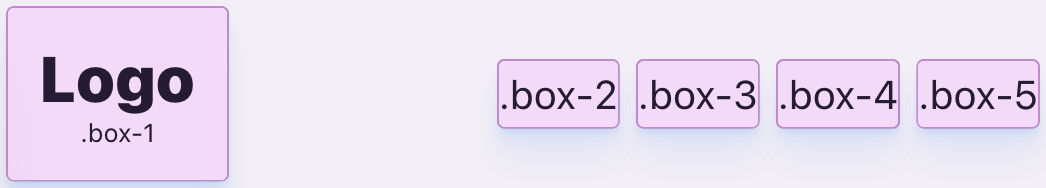
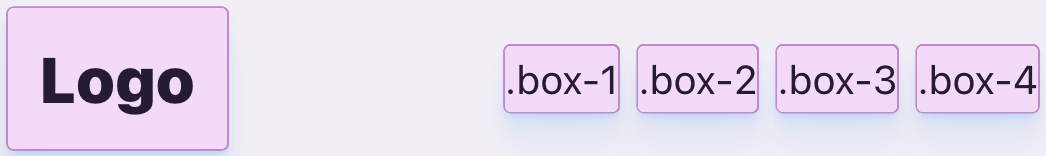
new exercises

diff --git a/src/content/config.ts b/src/content/config.ts
@@ -20,6 +20,7 @@ const exerciseCollection = defineCollection({
         })
         .optional(),
       startingCSS: z.string().optional(),
+      startingHTML: z.string().optional(),
       hints: z
         .array(
           z.object({

diff --git a/src/content/flex/07.md b/src/content/flex/07.md
@@ -1,33 +1,36 @@
 ---
-title: Flere rækker
+title: Klynge-wrap
 id: flex-7
 image: ./img/flex-7.png
-boxes: 8
+boxes: 0
 canAddBoxes: false
 isExtra: true
-customClass: ""
+customClass: "resize-x-only"
 help:
   {
     link: https://developer.mozilla.org/en-US/docs/Web/CSS/CSS_Flexible_Box_Layout/Basic_Concepts_of_Flexbox#the_flex-flow_shorthand,
     topic: flex-flow og flex-værdier,
   }
+startingHTML: |
+  <div class="box">Layout</div>
+  <div class="box">CSS</div>
+  <div class="box">Web Design</div>
+  <div class="box">Code</div>
+  <div class="box">Front-end</div>
+  <div class="box">Development</div>
 startingCSS: |
   .container {
     
   }
 
   .box {
-    
+    padding-inline: 1rem;
   }
 hints:
-  - { type: property, name: flex-flow }
-  - { type: property, name: flex-basis }
-  - { type: property, name: flex-grow }
+  - { type: property, name: flex-wrap }
   - { type: value, name: wrap }
 ---
 
-Få hver boks til minimum at fylde 30 % af containerens bredde, og sørg for, at boksene automatisk rykker ned på en ny række, hvis der ikke er plads ved at sætte `flex-flow` til `wrap`.
+Få hvert ord til at rykke ned på en ny række, hvis der ikke er plads nok på den nuværende, ved at sætte `flex-wrap` til `wrap` på `.container`en.
 
-Brug `flex-basis` til at indstille boksenes minimumsbredde, og sæt `flex-grow` til `1`, for at få boksene til at fylde containeren ud (se reference).
-
-**Bemærk**, at de to nederste bokse udnytter hele containerens bredde, når man bruger `flex-grow`.
+Tilføj noget afstand mellem ordene ved at sætte `gap` til `.5rem`.

diff --git a/src/content/grid/10.md b/src/content/grid/10.md
@@ -1,26 +1,31 @@
 ---
-title: Fyld kolonnerne først
+title: Header, Main og Footer
 id: grid-12
 image: ./img/grid-ex-12.png
-boxes: 7
+boxes: 3
 canAddBoxes: false
 isExtra: true
 customClass: ""
 help:
   {
-    link: https://developer.mozilla.org/en-US/docs/Web/CSS/grid-auto-flow,
-    topic: grid-auto-flow,
+    link: https://developer.mozilla.org/en-US/docs/Web/CSS/min-content,
+    topic: min-content,
   }
+startingHTML: |
+  <div class="box box-1">Header</div>
+  <div class="box box-2">Main</div>
+  <div class="box box-3">Footer</div>
 startingCSS: |
   .container {
-    
-  }
 
-  .box-1 {
-    
   }
 hints:
-  - { type: property, name: grid-auto-flow }
+  - { type: property, name: grid-template-rows }
+  - { type: value, name: min-content }
 ---
 
-Definér et grid med tre rækker og lad `.box-1` spænde over alle tre. Brug derefter `grid-auto-flow` til at generere yderligere to kolonner med de resterende bokse.
+Definér et grid med tre rækker, der repræsenterer en header, main og footer.
+
+`main` skal have en fleksibel højde, så den kan vokse med indholdet, og højden på `header` og `footer` skal defineres af indholdet vha. `min-content`.
+
+Trækderefter i vinduet med dine bokse (nederst i højre hjørne ↖) for at se, hvordan `header` og `footer` altid er placeret hhv. øverst og nederst i grid'et.

diff --git a/src/content/flex/08.md b/src/content/flex/08.md
@@ -1,0 +1,33 @@
+---
+title: Fyld rækkerne ud
+id: flex-8
+image: ./img/flex-8.png
+boxes: 8
+canAddBoxes: false
+isExtra: true
+customClass: "resize-x-only"
+help:
+  {
+    link: https://developer.mozilla.org/en-US/docs/Web/CSS/CSS_flexible_box_layout/Mastering_wrapping_of_flex_items#how_do_flexbox-based_grid_systems_work,
+    topic: flex-wrap og flex-værdier,
+  }
+startingCSS: |
+  .container {
+    
+  }
+
+  .box {
+    
+  }
+hints:
+  - { type: property, name: flex-wrap }
+  - { type: property, name: flex-basis }
+  - { type: property, name: flex-grow }
+  - { type: value, name: wrap }
+---
+
+Få boksene til at rykke ned på en ny række, hvis der ikke er plads nok ved at sætte `flex-wrap` til `wrap` på `.container`en. Indstil derefter hver boks til minimum at fylde 30 % af containerens bredde vha. `flex-basis: 30%;`. Sæt da `flex-grow` til `1` for hver boks for at få dem til at fylde containeren ud (se reference).
+
+`flex-basis` bruges til at indstille boksenes "ideelle" bredde, og `flex-grow` bruges til at udnytte overskydende mellemrum i containeren.
+
+_Bemærk, man kan også bruge en `flex` "shorthand" til at sætte både `flex-grow`, (`flex-shrink`) og `flex-basis` på én gang. Se link for mere info._

diff --git a/src/content/flex/10.md b/src/content/flex/10.md
@@ -1,0 +1,37 @@
+---
+title: Wrap-reverse
+id: flex-10
+image: ./img/flex-10.png
+boxes: 2
+canAddBoxes: false
+isExtra: true
+customClass: "resize-x-only"
+help:
+  {
+    link: https://developer.mozilla.org/en-US/docs/Web/CSS/flex-wrap#values,
+    topic: wrap-reverse,
+  }
+# startingHTML: |
+#   <p>Flexbox er en CSS-layout teknik, der gør det muligt at opbygge komplekse layout på en enkel og effektiv måde. </p>
+#   <img src="/src/assets/imgs/placeholder.png" alt="placeholder">
+startingCSS: |
+  .container {
+    
+  }
+
+  .box-1 {
+    
+  }
+
+  .box-2 {
+
+  }
+hints:
+  - { type: property, name: flex }
+  - { type: property, name: flex-wrap }
+  - { type: value, name: wrap-reverse }
+---
+
+Indstil boksene til hhv. at fylde `300px` (`.box-1`) og `100px` (`.box-2`) plus containerens eventuelle overskydende plads vha. `flex`.
+
+Sæt derefter `flex-wrap` til `wrap-reverse` på `.container`en for at få boksene til at wrappe i omvendt rækkefølge.

diff --git a/src/content/flex/09.md b/src/content/flex/09.md
@@ -1,0 +1,38 @@
+---
+title: Flex none
+id: flex-9
+image: ./img/flex-9.png
+boxes: 2
+canAddBoxes: false
+isExtra: true
+customClass: "resize-x-only"
+help:
+  {
+    link: https://developer.mozilla.org/en-US/docs/Web/CSS/flex,
+    topic: flex shorthand,
+  }
+
+startingCSS: |
+  .container {
+    
+  }
+
+  .box-1 {
+    
+  }
+
+  .box-2 {
+
+  }
+hints:
+  - { type: property, name: flex-wrap }
+  - { type: property, name: flex }
+  - { type: value, name: wrap }
+  - { type: value, name: none }
+---
+
+Lav en flex-container, der wrapper indholdet, når der ikke er plads (inkl. lidt gap).
+
+Brug derefter `flex` shortands til hhv. at få `.box-1` til kun være så bred som dens indhold vha. værdien `none`, mens `.box-2` skal fylde `300px` plus containerens eventuelle overskydende plads.
+
+Træk i vinduet vha. <span class="resize">↖</span> for at se, hvordan boksene opfører sig i forskellige størrelser.

diff --git a/src/content/flex/03.md b/src/content/flex/03.md
@@ -5,18 +5,24 @@ image: ./img/flex-3.png
 boxes: 5
 canAddBoxes: false
 isExtra: false
-customClass: "logo-box"
+customClass: "logo-box resize-x-only"
 help:
   {
     link: https://developer.mozilla.org/en-US/docs/Web/CSS/CSS_Flexible_Box_Layout/Aligning_Items_in_a_Flex_Container#using_auto_margins_for_main_axis_alignment,
     topic: auto-margin,
   }
+startingHTML: |
+  <div class="box logo">Logo</div>
+  <div class="box box-1">.box-1</div>
+  <div class="box box-2">.box-2</div>
+  <div class="box box-3">.box-3</div>
+  <div class="box box-4">.box-4</div>
 startingCSS: |
   .container {
     
   }
 
-  .box-1 {
+  .logo {
 
   }
 hints:

diff --git a/src/content/grid/11.md b/src/content/grid/11.md
@@ -1,0 +1,26 @@
+---
+title: Fyld kolonnerne først
+id: grid-13
+image: ./img/grid-ex-13.png
+boxes: 7
+canAddBoxes: false
+isExtra: true
+customClass: ""
+help:
+  {
+    link: https://developer.mozilla.org/en-US/docs/Web/CSS/grid-auto-flow,
+    topic: grid-auto-flow,
+  }
+startingCSS: |
+  .container {
+    
+  }
+
+  .box-1 {
+    
+  }
+hints:
+  - { type: property, name: grid-auto-flow }
+---
+
+Definér et grid med tre rækker og lad `.box-1` spænde over alle tre. Brug derefter `grid-auto-flow` til at generere yderligere to kolonner med de resterende bokse.

diff --git a/src/content/flex/02.md b/src/content/flex/02.md
@@ -5,7 +5,7 @@ image: ./img/flex-2.jpg
 boxes: 5
 canAddBoxes: false
 isExtra: false
-customClass: ""
+customClass: "resize-x-only"
 help:
   {
     link: https://developer.mozilla.org/en-US/docs/Web/CSS/CSS_Flexible_Box_Layout/Aligning_Items_in_a_Flex_Container#aligning_content_on_the_main_axis,

diff --git a/src/content/flex/01.md b/src/content/flex/01.md
@@ -5,7 +5,7 @@ image: ./img/flex-1.png
 boxes: 5
 canAddBoxes: false
 isExtra: false
-customClass: ""
+customClass: "resize-x-only"
 help:
   {
     link: https://developer.mozilla.org/en-US/docs/Web/CSS/CSS_Flexible_Box_Layout/Basic_Concepts_of_Flexbox#the_flex_container,

diff --git a/src/content/flex/04.md b/src/content/flex/04.md
@@ -5,7 +5,7 @@ image: ./img/flex-4.png
 boxes: 2
 canAddBoxes: false
 isExtra: false
-customClass: ""
+customClass: "resize-x-only"
 help:
   {
     link: https://developer.mozilla.org/en-US/docs/Web/CSS/flex-direction,

diff --git a/src/content/flex/04a.md b/src/content/flex/04a.md
@@ -5,7 +5,7 @@ image: ./img/flex-4a.png
 boxes: 2
 canAddBoxes: false
 isExtra: false
-customClass: ""
+customClass: "resize-x-only"
 help:
   {
     link: https://cssreference.io/property/flex-direction,
